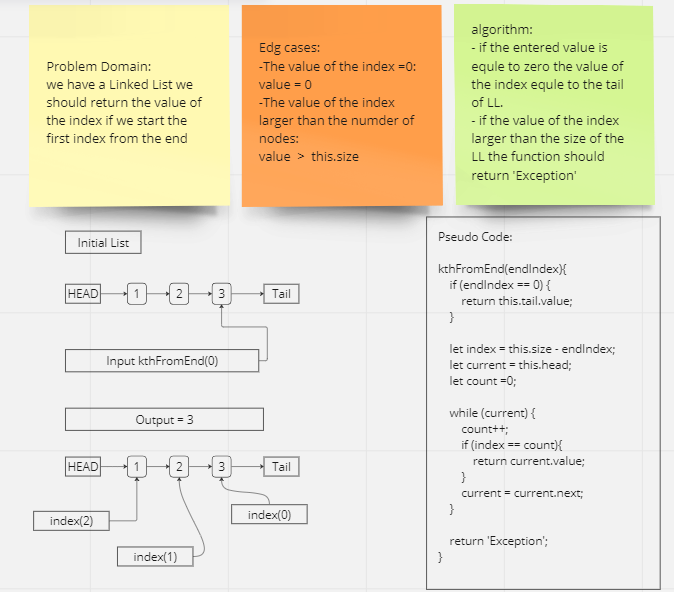
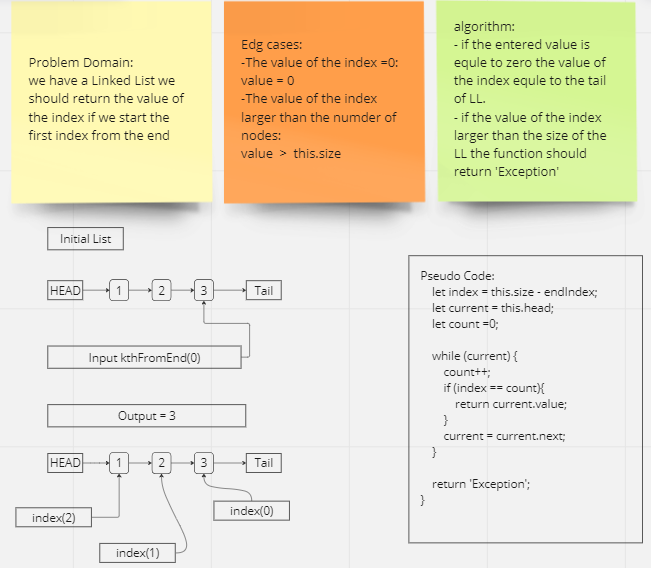
linked-list-kth updated DONE

diff --git a/javascript/linked-list/__tests__/linkedlist.test.js b/javascript/linked-list/__tests__/linkedlist.test.js
@@ -8,25 +8,78 @@ describe("Linked List", () => {
     let list = await new LinkedList();
     expect(list.head).toBeNull();
   });
+});
+
+describe("append", () => {
   test("append to linkedlist", async () => {
     let list = await new LinkedList();
     list.append("one");
     expect(list.head.value).toEqual("one");
     list.append("two");
     expect(list.tail.value).toEqual("two");
-    // list.includes("two");
-    // expect(list.includes("two")).toEqual(true);
-    // list.toString();
-    // expect(list.toString()).toEqual("{ one } -> { two } -> NULL");
-    list.insertBefore('one','zero');
-    expect(list.head.value).toEqual('zero');
-    // list.insertAfter('two','three');
-    // expect(list.tail.value).toEqual("three");
-    list.kthFromEnd(0);
-    expect(list.kthFromEnd(0)).toEqual('two');
+    list.append("three");
+    expect(list.tail.value).toEqual("three");
   });
 });
-// ---
-// afterAll (()=> {
-//   process.exit();
-// })
+
+describe("includes", () => {
+  test("includes in linkedlist", async () => {
+    let list = await new LinkedList();
+    list.append("one");
+    let result = list.includes("one");
+    expect(result).toEqual(true);
+    // let result2 = list.includes("two");
+    // expect(result2).toEqual(false);
+  });
+});
+
+describe("toString", () => {
+  test("linkedlist to String ", async () => {
+    let list = await new LinkedList();
+    let result = list.toString();
+    expect(result).toEqual("NULL");
+
+    // list.append("one");
+    // list.append("two");
+    // let result2 = list.toString();
+    // expect(result2).toEqual("one -> two -> NULL");
+  });
+});
+
+describe("toString", () => {
+  test("linkedlist to String ", async () => {
+    let list = await new LinkedList();
+    let result = list.toString();
+    expect(result).toEqual("NULL");
+
+    // list.append("one");
+    // list.append("two");
+    // let result2 = list.toString();
+    // expect(result2).toEqual("one -> two -> NULL");
+  });
+});
+
+describe("kthFromEnd", () => {
+  test("kthFromEnd in LL ", async () => {
+    let list = await new LinkedList();
+    let result = list.kthFromEnd(0);
+    expect(result).toEqual("Exception");
+
+    list.append("one");
+    let result1 = list.kthFromEnd(0);
+    expect(result1).toEqual("one");
+
+    let result2 = list.kthFromEnd(1);
+    expect(result2).toEqual("Exception");
+
+    list.append("two");
+    let result3 = list.kthFromEnd(1);
+    expect(result3).toEqual("one");
+    let result4 = list.kthFromEnd(0);
+    expect(result4).toEqual("two");
+
+    let result5 = list.kthFromEnd(-1);
+    expect(result5).toEqual("Exception");
+  });
+});
+

diff --git a/javascript/linked-list/index.js b/javascript/linked-list/index.js
@@ -4,22 +4,26 @@ const LinkedList = require('./lib/LinkedList');
 
 let ll = new LinkedList();
 
-// ll.append(1);
+ll.append(1);
 ll.append(2);
-ll.append(3);
+// ll.append(3);
 // ll.append(4);
-ll.insertAfter(3,4);
+// ll.insertAfter(3,4);
 // ll.insertAfter(5,7);
 // ll.insertAfter(8,4);
-ll.insertBefore(2,1);
+// ll.insertBefore(2,1);
 // ll.insertBefore(2,3);
 // ll.insertBefore(2,6);
 
-ll.kthFromEnd(0);
+console.log(ll.kthFromEnd(0));  // =2
+console.log(ll.kthFromEnd(1));  // =1
+console.log(ll.kthFromEnd(-1)); // =Exception
+console.log(ll.kthFromEnd(2));  // =Exception
 
-console.log(ll);
 
-console.log(ll.includes(0));
-console.log(ll.includes(1));
+// console.log(ll);
 
-console.log(ll.toString());
+// console.log(ll.includes(0));
+// console.log(ll.includes(1));
+
+// console.log(ll.toString());

diff --git a/javascript/linked-list/lib/LinkedList.js b/javascript/linked-list/lib/LinkedList.js
@@ -107,10 +107,7 @@ class LinkedList {
   }
 
   kthFromEnd(endIndex) {
-    if (endIndex == 0) {
-      return this.tail.value;
-    }
-
+    
     let index = this.size - endIndex;
     let current = this.head;
     let count = 0;
